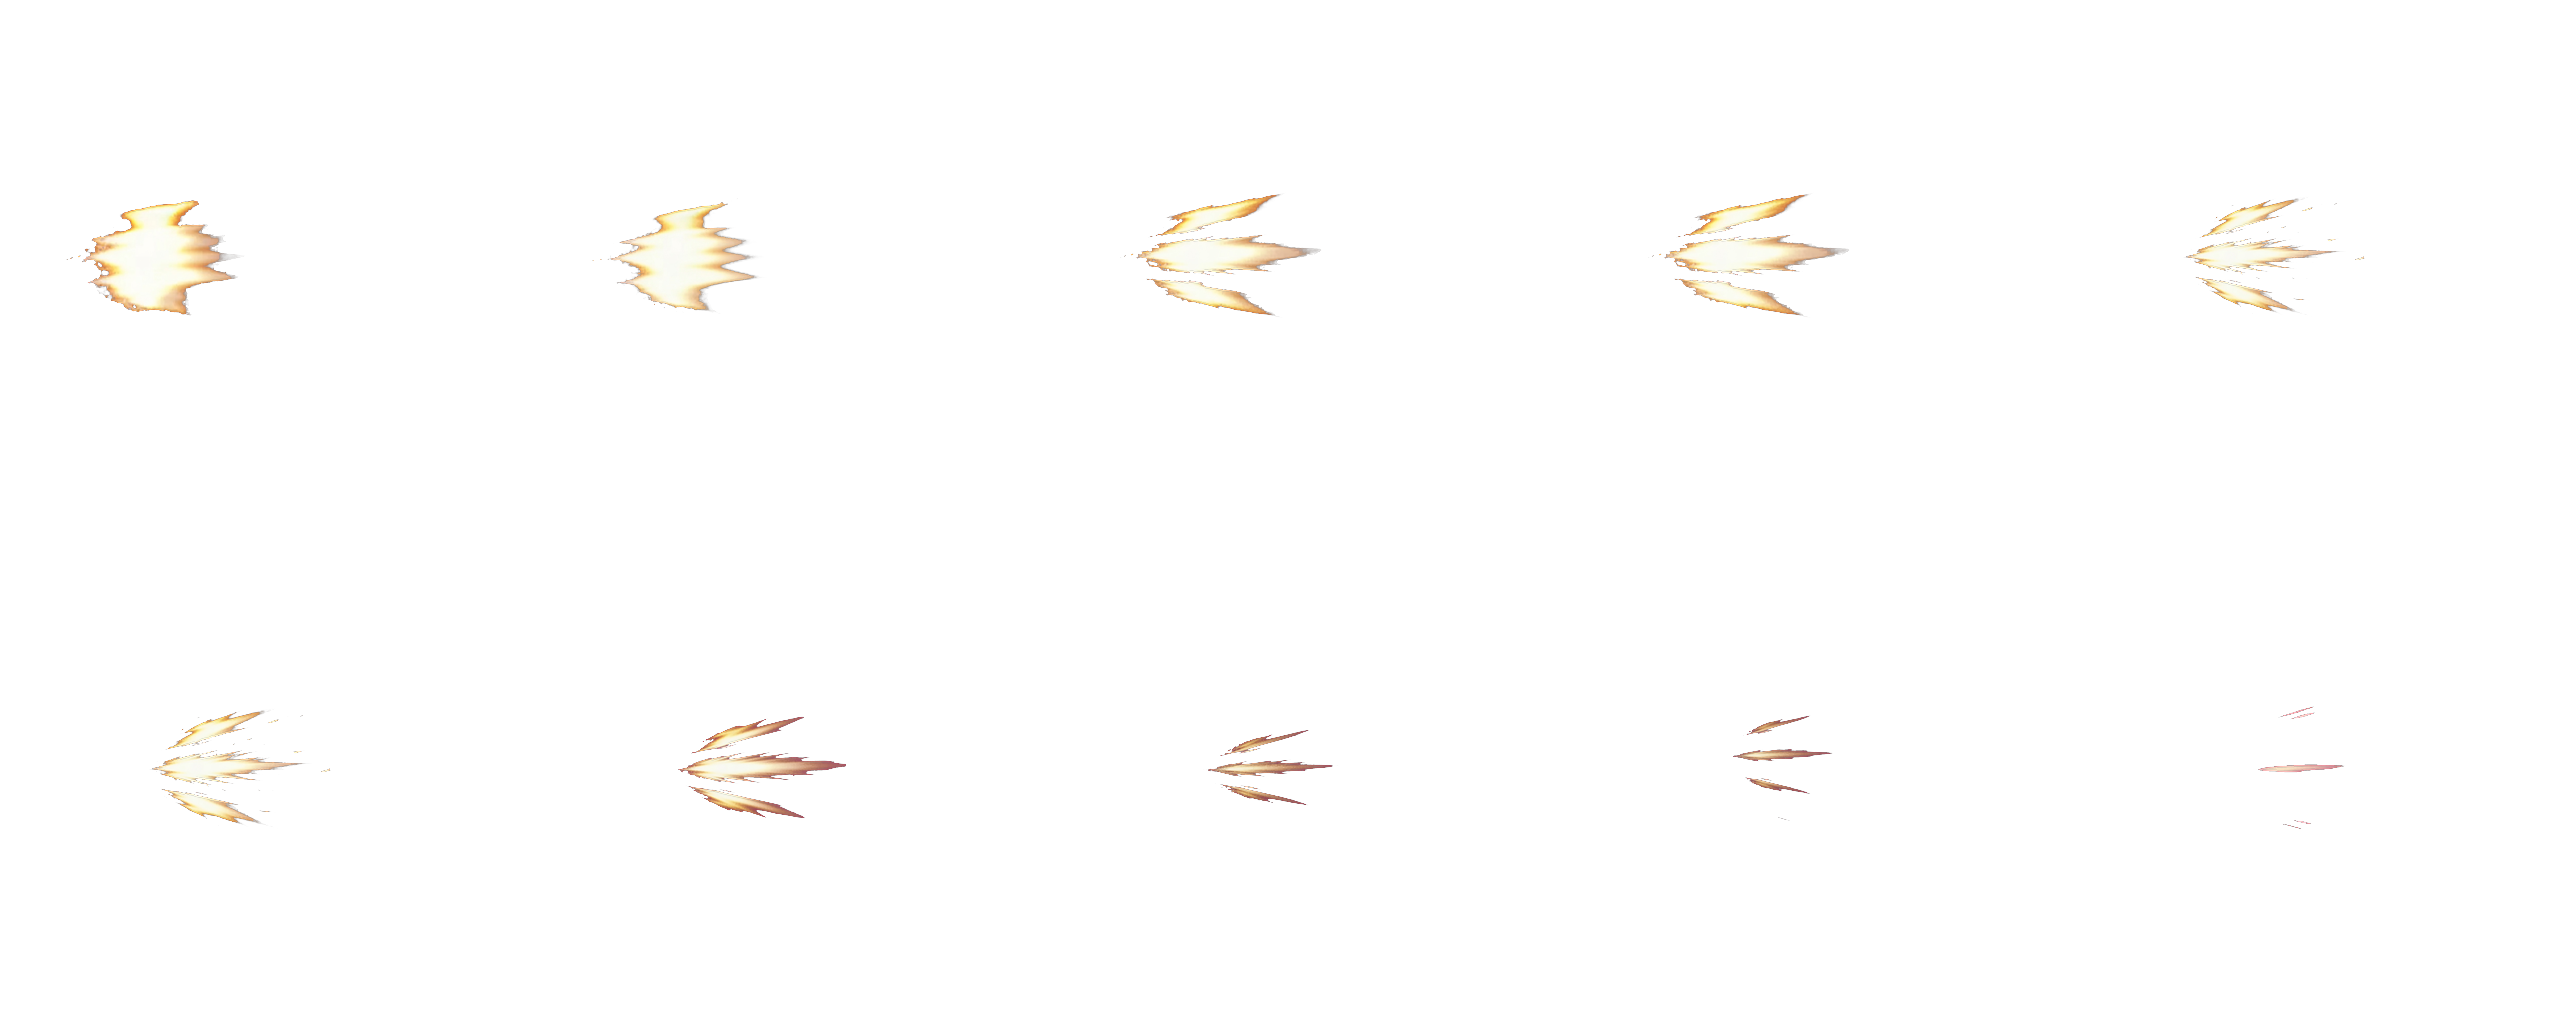
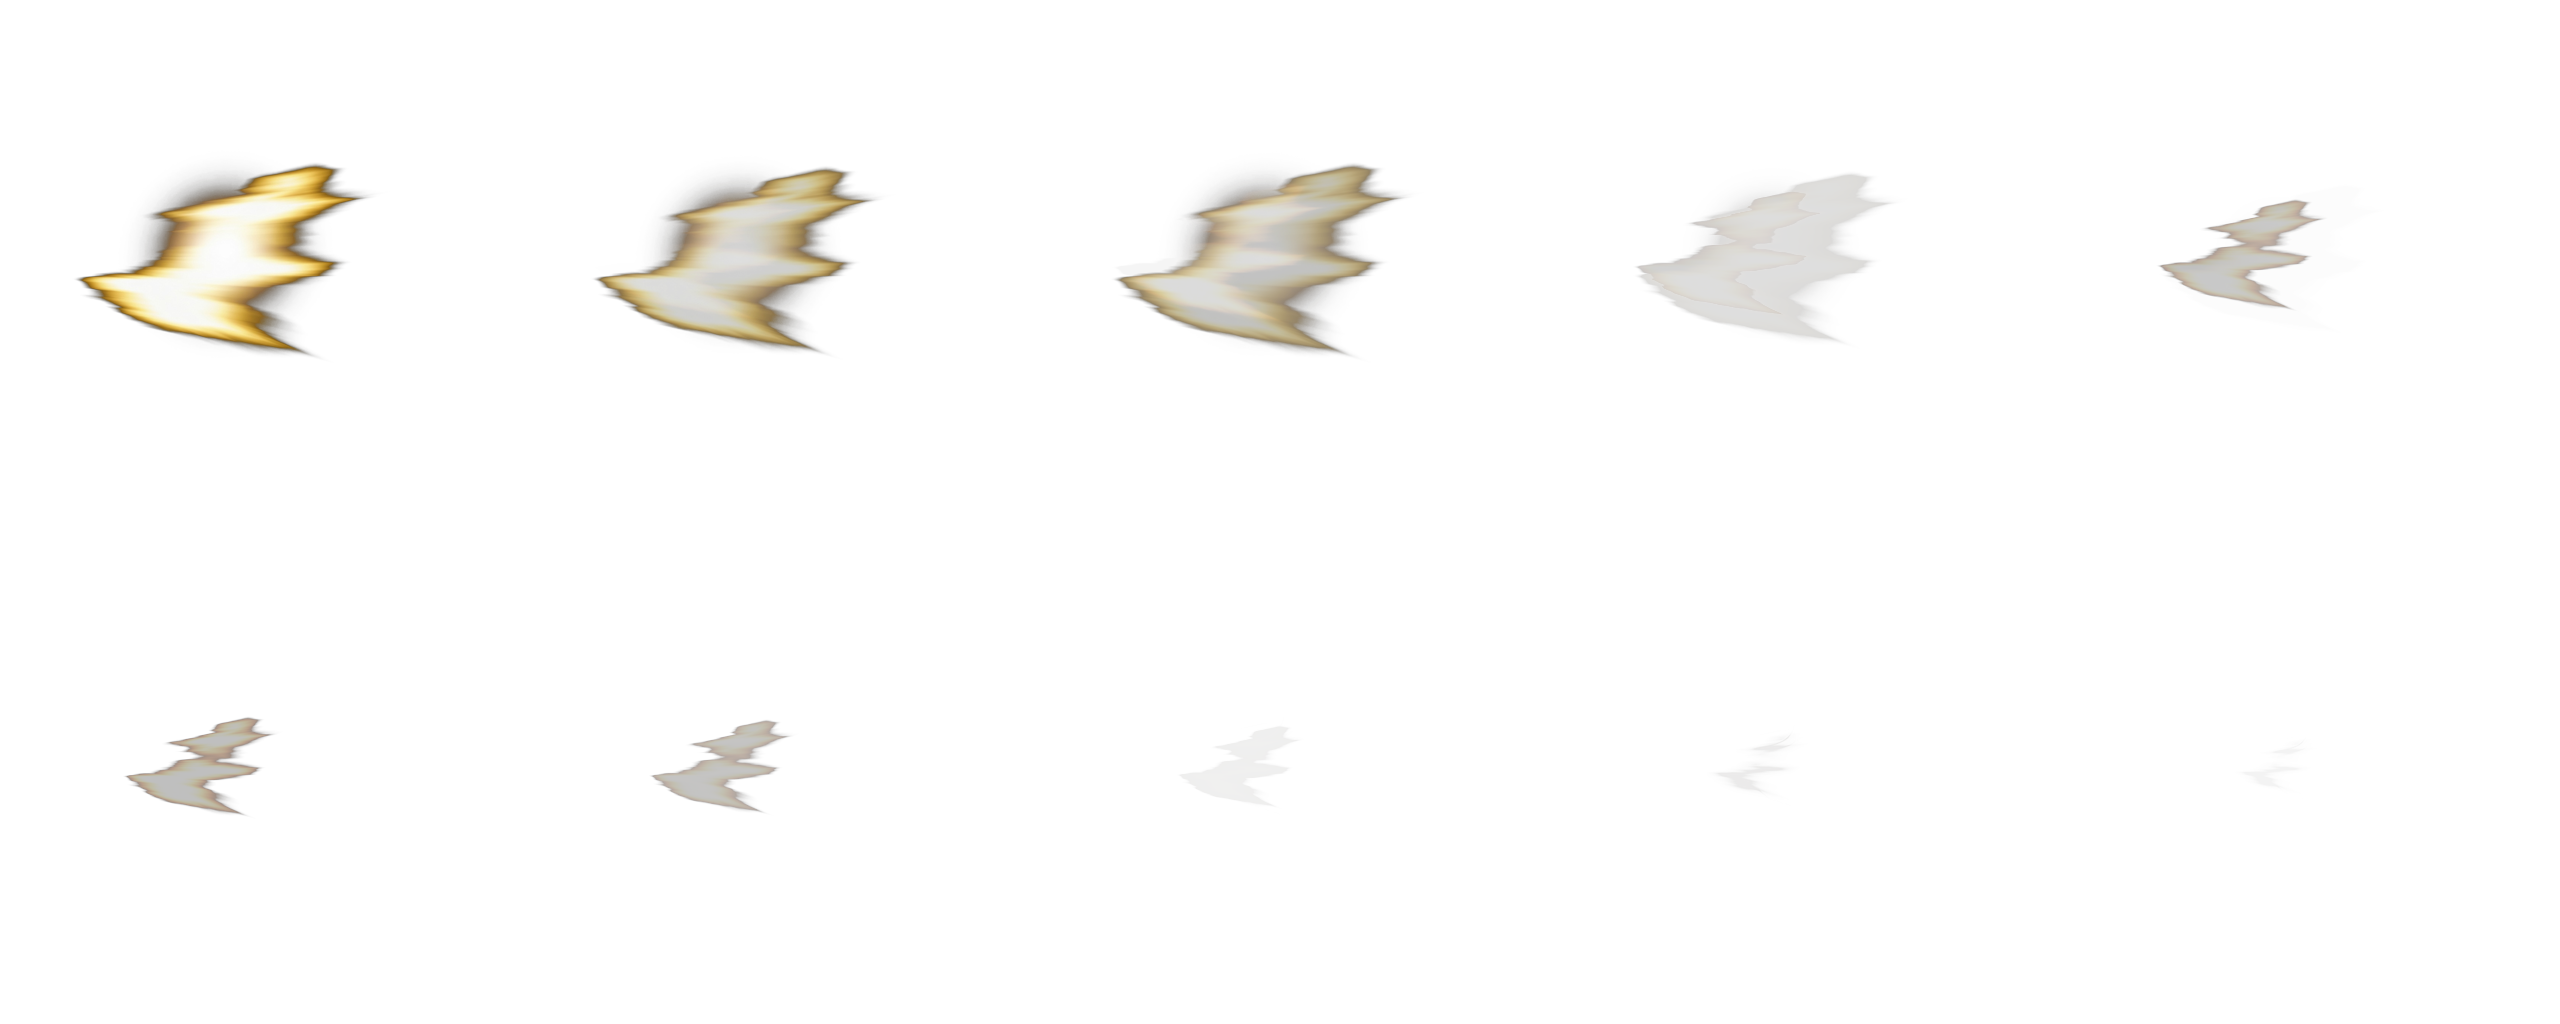
Refresh E1 core flash via 3-key compose and retune shipping.
Ship rebuilt public/pipeline frames with compose_e1_from_keys, and lower/brighten L/M/H E1 layer settings to match.

diff --git a/vfx-ai-pipeline/scripts/compose_e1_from_keys.py b/vfx-ai-pipeline/scripts/compose_e1_from_keys.py
@@ -1,0 +1,257 @@
+#!/usr/bin/env python3
+"""Build E1 10-frame sequence from 3 authored keys via alpha / scale / drift.
+
+Keys:
+  A = peak (ref ~frame 1)
+  B = mid  (ref ~frame 7)
+  C = dying (ref ~frame 10)
+
+Timeline (30fps, E1 lives on t=1..10 of the 17-frame hit):
+  0-2  A platform (appear-at-peak)
+  3-4  A → B
+  5-6  B
+  7-8  B → C
+  9    C dying
+
+Anchor is the LEFT content edge (fist contact), not bbox center.
+Scale is applied around that contact so mass shrinks toward the punch.
+Drift is to the RIGHT (strike direction).
+"""
+from __future__ import annotations
+
+import json
+import shutil
+from pathlib import Path
+
+import numpy as np
+from PIL import Image, ImageFilter
+
+ROOT = Path(__file__).resolve().parents[1]
+KEYS = ROOT / "runs" / "hit_ref_v1" / "E1_core_flash" / "iter11_keyframes"
+OUT = ROOT / "runs" / "hit_ref_v1" / "E1_core_flash"
+PUBLIC = ROOT.parent / "app" / "public" / "vfx" / "hit_ref_v1" / "E1_core_flash"
+
+CELL = 512
+N = 10
+FPS = 30
+
+# Fit the peak sprite so its bbox width is this fraction of the cell.
+PEAK_WIDTH_FRAC = 0.62
+CONTACT_X = 72
+CONTACT_Y = CELL // 2
+
+# Per output frame (index 0 = ref frame 1).
+# Extra scale on top of each key's native size (A is authored at ~peak).
+SCALE = [1.00, 0.97, 1.00, 0.90, 0.78, 0.70, 0.66, 0.58, 0.48, 0.40]
+OPACITY = [1.00, 0.96, 1.00, 0.88, 0.78, 0.72, 0.68, 0.52, 0.36, 0.22]
+# Rightward drift in pixels.
+DRIFT = [0, 6, 14, 24, 36, 50, 64, 80, 96, 112]
+# Mix of A, B, C (must sum to 1).
+MIX = [
+    (1.00, 0.00, 0.00),
+    (0.92, 0.08, 0.00),
+    (0.80, 0.20, 0.00),
+    (0.45, 0.55, 0.00),
+    (0.15, 0.85, 0.00),
+    (0.00, 1.00, 0.00),
+    (0.00, 0.92, 0.08),
+    (0.00, 0.50, 0.50),
+    (0.00, 0.18, 0.82),
+    (0.00, 0.00, 1.00),
+]
+
+
+def black_to_alpha(im: Image.Image, lo: float = 10.0, hi: float = 140.0) -> Image.Image:
+    rgb = np.asarray(im.convert("RGB"), dtype=np.float32)
+    luma = rgb.max(axis=2)
+    a = np.clip((luma - lo) / (hi - lo), 0.0, 1.0)
+    # crush near-black fringe
+    a = np.where(luma < lo, 0.0, a)
+    rgba = np.dstack([rgb, a * 255.0]).astype(np.uint8)
+    return Image.fromarray(rgba, "RGBA")
+
+
+def content_bbox(im: Image.Image, a_min: int = 12) -> tuple[int, int, int, int]:
+    a = np.asarray(im.getchannel("A"))
+    ys, xs = np.where(a >= a_min)
+    if xs.size == 0:
+        w, h = im.size
+        return 0, 0, w, h
+    return int(xs.min()), int(ys.min()), int(xs.max()) + 1, int(ys.max()) + 1
+
+
+def crop_pad(im: Image.Image, pad: int = 8) -> Image.Image:
+    x0, y0, x1, y1 = content_bbox(im)
+    x0 = max(0, x0 - pad)
+    y0 = max(0, y0 - pad)
+    x1 = min(im.size[0], x1 + pad)
+    y1 = min(im.size[1], y1 + pad)
+    return im.crop((x0, y0, x1, y1))
+
+
+def load_key(path: Path) -> Image.Image:
+    return crop_pad(black_to_alpha(Image.open(path)))
+
+
+def paste_left_anchor(
+    canvas: np.ndarray,
+    sprite: Image.Image,
+    *,
+    contact: tuple[int, int],
+    scale: float,
+    opacity: float,
+    drift_x: float,
+) -> None:
+    if scale <= 0.01 or opacity <= 0.01:
+        return
+    sw, sh = sprite.size
+    nw = max(1, int(round(sw * scale)))
+    nh = max(1, int(round(sh * scale)))
+    resized = sprite.resize((nw, nh), Image.Resampling.LANCZOS)
+    # left content edge + vertical center of content
+    x0, y0, x1, y1 = content_bbox(resized)
+    left = x0
+    cy = (y0 + y1) / 2.0
+    dest_x = int(round(contact[0] + drift_x - left))
+    dest_y = int(round(contact[1] - cy))
+
+    src = np.asarray(resized).astype(np.float32)
+    H, W = canvas.shape[:2]
+    x1d = dest_x + nw
+    y1d = dest_y + nh
+    sx0 = 0
+    sy0 = 0
+    dx0 = dest_x
+    dy0 = dest_y
+    if dx0 < 0:
+        sx0 = -dx0
+        dx0 = 0
+    if dy0 < 0:
+        sy0 = -dy0
+        dy0 = 0
+    if x1d > W:
+        x1d = W
+    if y1d > H:
+        y1d = H
+    if dx0 >= x1d or dy0 >= y1d:
+        return
+    patch = src[sy0 : sy0 + (y1d - dy0), sx0 : sx0 + (x1d - dx0)]
+    sa = (patch[..., 3:4] / 255.0) * opacity
+    dst = canvas[dy0:y1d, dx0:x1d]
+    # additive RGB, max alpha (flash)
+    dst[..., :3] = np.clip(dst[..., :3] + patch[..., :3] * sa, 0, 255)
+    dst[..., 3:4] = np.clip(np.maximum(dst[..., 3:4], patch[..., 3:4] * opacity), 0, 255)
+    canvas[dy0:y1d, dx0:x1d] = dst
+
+
+def save_gif(frames: list[Image.Image], path: Path, duration_ms: int) -> None:
+    pal = []
+    for fr in frames:
+        bg = Image.new("RGBA", fr.size, (12, 12, 14, 255))
+        bg = Image.alpha_composite(bg, fr)
+        pal.append(bg.convert("P", palette=Image.Palette.ADAPTIVE, colors=128))
+    pal[0].save(
+        path,
+        save_all=True,
+        append_images=pal[1:],
+        duration=duration_ms,
+        loop=0,
+        disposal=2,
+        optimize=False,
+    )
+
+
+def pack_strip(frames: list[Image.Image]) -> Image.Image:
+    cell = frames[0].size[0]
+    strip = Image.new("RGBA", (cell * len(frames), cell), (0, 0, 0, 255))
+    for i, fr in enumerate(frames):
+        bg = Image.new("RGBA", fr.size, (12, 12, 14, 255))
+        bg = Image.alpha_composite(bg, fr)
+        strip.paste(bg.convert("RGBA"), (i * cell, 0))
+    return strip
+
+
+def main() -> None:
+    a = load_key(KEYS / "key_01_peak_v4.jpg")
+    b = load_key(KEYS / "key_07_mid.jpg")
+    c = load_key(KEYS / "key_10_dying_v10.jpg")
+
+    # Normalize so peak bbox width matches PEAK_WIDTH_FRAC * CELL.
+    aw = content_bbox(a)[2] - content_bbox(a)[0]
+    peak_scale = (CELL * PEAK_WIDTH_FRAC) / max(aw, 1)
+    def fit(im: Image.Image) -> Image.Image:
+        nw = max(1, int(round(im.size[0] * peak_scale)))
+        nh = max(1, int(round(im.size[1] * peak_scale)))
+        return im.resize((nw, nh), Image.Resampling.LANCZOS)
+
+    a, b, c = fit(a), fit(b), fit(c)
+    # Mid/dying already smaller in artwork; leave native relative size after shared fit.
+
+    seq_dir = OUT / "iter11_seq"
+    frames_dir = OUT / "frames"
+    seq_dir.mkdir(parents=True, exist_ok=True)
+    frames_dir.mkdir(parents=True, exist_ok=True)
+
+    frames: list[Image.Image] = []
+    for i in range(N):
+        canvas = np.zeros((CELL, CELL, 4), dtype=np.float32)
+        wa, wb, wc = MIX[i]
+        scale = SCALE[i]
+        opac = OPACITY[i]
+        drift = DRIFT[i]
+        contact = (CONTACT_X, CONTACT_Y)
+        if wa > 0:
+            paste_left_anchor(canvas, a, contact=contact, scale=scale, opacity=opac * wa, drift_x=drift)
+        if wb > 0:
+            paste_left_anchor(canvas, b, contact=contact, scale=scale, opacity=opac * wb, drift_x=drift)
+        if wc > 0:
+            paste_left_anchor(canvas, c, contact=contact, scale=scale, opacity=opac * wc, drift_x=drift)
+        im = Image.fromarray(np.clip(canvas, 0, 255).astype(np.uint8), "RGBA")
+        # tiny blur to hide mix seams
+        if 0 < max(wa, wb, wc) < 0.99 and wa + wb + wc > 0.99:
+            rgb = im.convert("RGB").filter(ImageFilter.GaussianBlur(0.4))
+            achan = im.getchannel("A")
+            im = Image.merge("RGBA", (*rgb.split(), achan))
+        frames.append(im)
+        im.save(seq_dir / f"frame-{i:02d}.png")
+        im.save(frames_dir / f"frame-{i:02d}.png")
+
+    sheet = Image.new("RGBA", (CELL * 5, CELL * 2), (0, 0, 0, 0))
+    for i, fr in enumerate(frames):
+        r, col = divmod(i, 5)
+        sheet.paste(fr, (col * CELL, r * CELL), fr)
+    sheet.save(OUT / "sheet-transparent.png")
+    save_gif(frames, OUT / "preview.gif", duration_ms=round(1000 / FPS))
+    save_gif(frames, seq_dir / "preview.gif", duration_ms=round(1000 / FPS))
+    pack_strip(frames).save(seq_dir / "contact_strip.png")
+
+    if PUBLIC.exists():
+        for i, fr in enumerate(frames):
+            fr.save(PUBLIC / f"frame-{i:02d}.png")
+
+    meta = {
+        "element": "E1_core_flash",
+        "iter": 11,
+        "method": "3-key alpha/scale/drift",
+        "keys": {
+            "A": "iter11_keyframes/key_01_peak_v4.jpg",
+            "B": "iter11_keyframes/key_07_mid.jpg",
+            "C": "iter11_keyframes/key_10_dying_v10.jpg",
+        },
+        "frames": N,
+        "fps": FPS,
+        "cell": CELL,
+        "contact": [CONTACT_X, CONTACT_Y],
+        "scale": SCALE,
+        "opacity": OPACITY,
+        "drift_px": DRIFT,
+        "mix_ABC": MIX,
+        "anchor": "left-edge",
+    }
+    (OUT / "pipeline-meta.json").write_text(json.dumps(meta, indent=2), encoding="utf-8")
+    (seq_dir / "pipeline-meta.json").write_text(json.dumps(meta, indent=2), encoding="utf-8")
+    print(f"wrote {N} frames → {frames_dir} and {seq_dir}")
+
+
+if __name__ == "__main__":
+    main()
